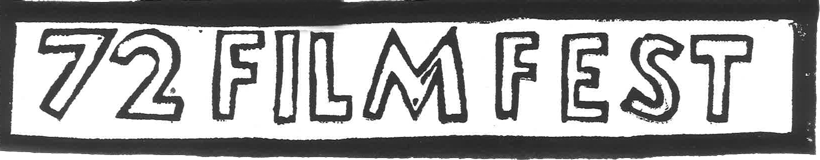
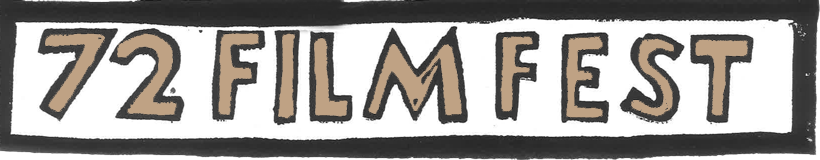
Fixes #36, update menu to add color and remove the sub menu graphic

Changed region(s): [[0.2439, 0.1875, 0.5793, 0.75], [0.6098, 0.2188, 0.9146, 0.75], [0.0305, 0.1875, 0.2134, 0.7188]]

diff --git a/www/templates/menu.html b/www/templates/menu.html
@@ -20,7 +20,6 @@
 
             <div class="logo-container">
               <img class="main-logo" src="img/72FestHeader.png" alt="72 Fest Logo">
-              <img class="sub-logo" src="img/72RomanNumerals.png" alt="">
             </div>
             <ion-list>
                 <!--<ion-item class="side-menu-item" menu-close ng-click="login()">

diff --git a/scss/ionic.app.scss b/scss/ionic.app.scss
@@ -68,6 +68,8 @@ $item-divider-color: $header-clr;
   text-align: center;
   .main-logo {
     width: 100%;
+    margin-top: 10px;
+    margin-bottom: 30px;
   }
   .sub-logo {
     width: 35%
